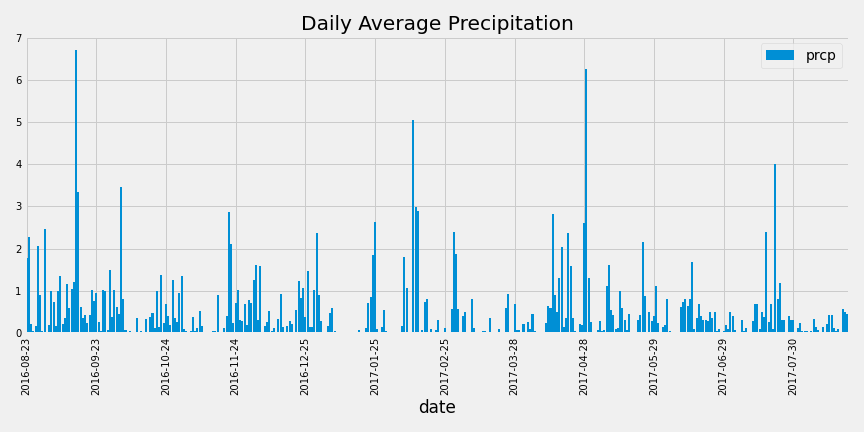
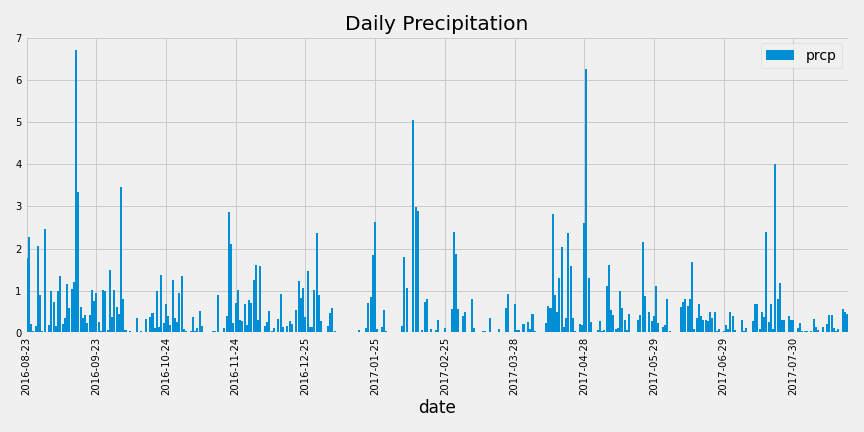
update readme

Changed region(s): [[0.3438, 0.0301, 0.6562, 0.0903]]

diff --git a/README.md b/README.md
@@ -2,21 +2,37 @@
 
 sqlalchemy Homework - Climate API 
 
-<img src="images/anaconda.gif" align="left" height="200"/>
-<img src="images/panda.gif" align="right" height="200"/>
-<img src="images/surfs-up.png" align="center" height="200"/>
+<img src="Images/anaconda.gif" align="left" height="200"/>
+<img src="Images/panda.gif" align="right" height="200"/>
+<img src="Images/surfs-up.png" align="center" height="200"/>
 
-code is PythonCode directory
+please note - code is PythonCode directory
 
-<img src="Images/daily_average_prcp.png" align="center" height="300"/>
+_______________________
 
+## Part 1. 
+### 1.1 Climate Analysis & Exploration
+
+connect to database
+sqlite database -[Resources\hawaii.sqlite](Resources/hawaii.sqlite)
+
+- 2 tables - Measurements with weather data and Stations with weather stations data
+
+jupyter notebook  - [PthonCode\climate.ipynb](PythonCode/climate.ipynb)
+
+
+______________________
+
+### 1.2. Precipitation Analysis 
+Most recent data date '2017-08-23'.
+Data query for 365 days back  from most recent data date
+
+#### Plot Precipitation vs date barchart all stations data 
 <img src="Images/daily_prcp.png" align="center" height="300"/>
 
-<img src="Images/temp_his.png" align="center" height="300"/>
+_______________
 
-<img src="Images/bonus_barchart_temp.png" align="center" height="300"/>
-
-<img src="Images/bonus_areaplot_temp.png" align="center" height="300"/>
+#### summary statistics for the precipitation data
 
 data|	prcp
 ---|    ---
@@ -29,12 +45,92 @@ min|	0.000000
 75%|	0.130000
 max|	6.700000
 
-Analysis
+jupyter notebook  - [PthonCode\climate.ipynb](PythonCode/climate.ipynb)
 
-### 1. Data is not normally distributed - we do not meet conditions for both t-test
-### 2. The observations are sampled independently - well it is not - so we do not meet another requirement for t-test
-### 3. unpaired t-test should be used to compare the mean between two independent groups - dec and jun are independent
-### 4. t-test null hypotheisis states that samples are equal,  p-value is very low 
-### 5. this indicates than we can reject null hypothesis as statistically insignificant 
-## so bottom line - bad example 
-## but t-tets shows significant difference between the two groups of data
+____________________
+
+#### Plot AVERAGE Precipitation vs date barchart all stations data 
+
+<img src="Images/daily_average_prcp.png" align="center" height="300"/>
+
+jupyter notebook  - [PthonCode\climate.ipynb](PythonCode/climate.ipynb)
+
+______________________
+
+### 1.3. Station Analysis 
+#### Most active stations
+Station id|Station| Data count
+---|---|---
+7| 'USC00519281'| 2772
+1| 'USC00519397'| 2724
+2| 'USC00513117'| 2709
+6| 'USC00519523'| 2669
+9| 'USC00516128'| 2612
+3| 'USC00514830'| 2202
+8| 'USC00511918'| 1979
+4| 'USC00517948'| 1372
+5| 'USC00518838'| 511
+
+Most Active Weather Station ID = 7
+
+jupyter notebook  - [PthonCode\climate.ipynb](PythonCode/climate.ipynb)
+____________________
+
+#### Temperature for most active station
+for most active station id, calculate the lowest, highest, and average temperature.
+
+mostactive station = 7, min temp = 54.0, max temp = 85.0, avg temp = 71.7
+Temp|DegF
+---|---
+min temp|54.0
+max temp|85.0
+avg temp|71.7
+
+jupyter notebook  - [PthonCode\climate.ipynb](PythonCode/climate.ipynb)
+____________________
+
+### 1.4 Temperature Analysis
+
+Temperature histogram over 12 bins (1 year data)
+
+<img src="Images/temp_his.png" align="center" height="300"/>
+
+jupyter notebook  - [PthonCode\climate.ipynb](PythonCode/climate.ipynb)
+____________________
+
+## 2.Part 2 Climate App
+
+
+Flask API  - [PythonCode/app.py](PythonCode/app.py)
+
+____________________
+
+## 3. Bonus 1. Other Analysis
+### 3.1 Temperature - t-test
+#### 1. Data is not normally distributed - we do not meet conditions for both t-test
+    Jun data 
+    ShapiroResult(statistic=0.9833921790122986, pvalue=1.6506709193953029e-12)
+    Dec Data
+    ShapiroResult(statistic=0.9817761778831482, pvalue=2.471981820628688e-12)
+
+#### 2. The observations are sampled independently - well it is not - so we do not meet another requirement for t-test
+    Temp on 2nd june is linked to temp on 1st june and so on .
+
+#### 3. t-test null hypotheisis states that samples means are equal, resulted p-value is very low 
+    Ttest_indResult(statistic=30.865349991562194, pvalue=9.8415346259008e-182)
+#### 4. samples sizes are not identical - problematic to do paired t-test, and it does not make sense as temp in Dec is not paired to temp in June
+#### 5. Extreamly low P-value indicates than we can reject null hypothesis as statistically insignificant 
+#### 6. bottom line - bad example 
+#### 7.but t-tets shows significant difference in means between the two groups of data showing that difference is not acciddental ...
+
+jupyter notebook  - [PthonCode\temp_analysis_bonus_1.ipynb](PythonCode/temp_analysis_bonus_1.ipynb)
+________________________
+### 3.3 Expected temp during vacation
+
+<img src="Images/bonus_barchart_temp.png" align="center" height="300"/>
+
+Daily Normal Temperatures during vacation
+
+<img src="Images/bonus_areaplot_temp.png" align="center" height="300"/>
+
+jupyter notebook  - [PthonCode\temp_analysis_bonus_2.ipynb](PythonCode/temp_analysis_bonus_2.ipynb)
